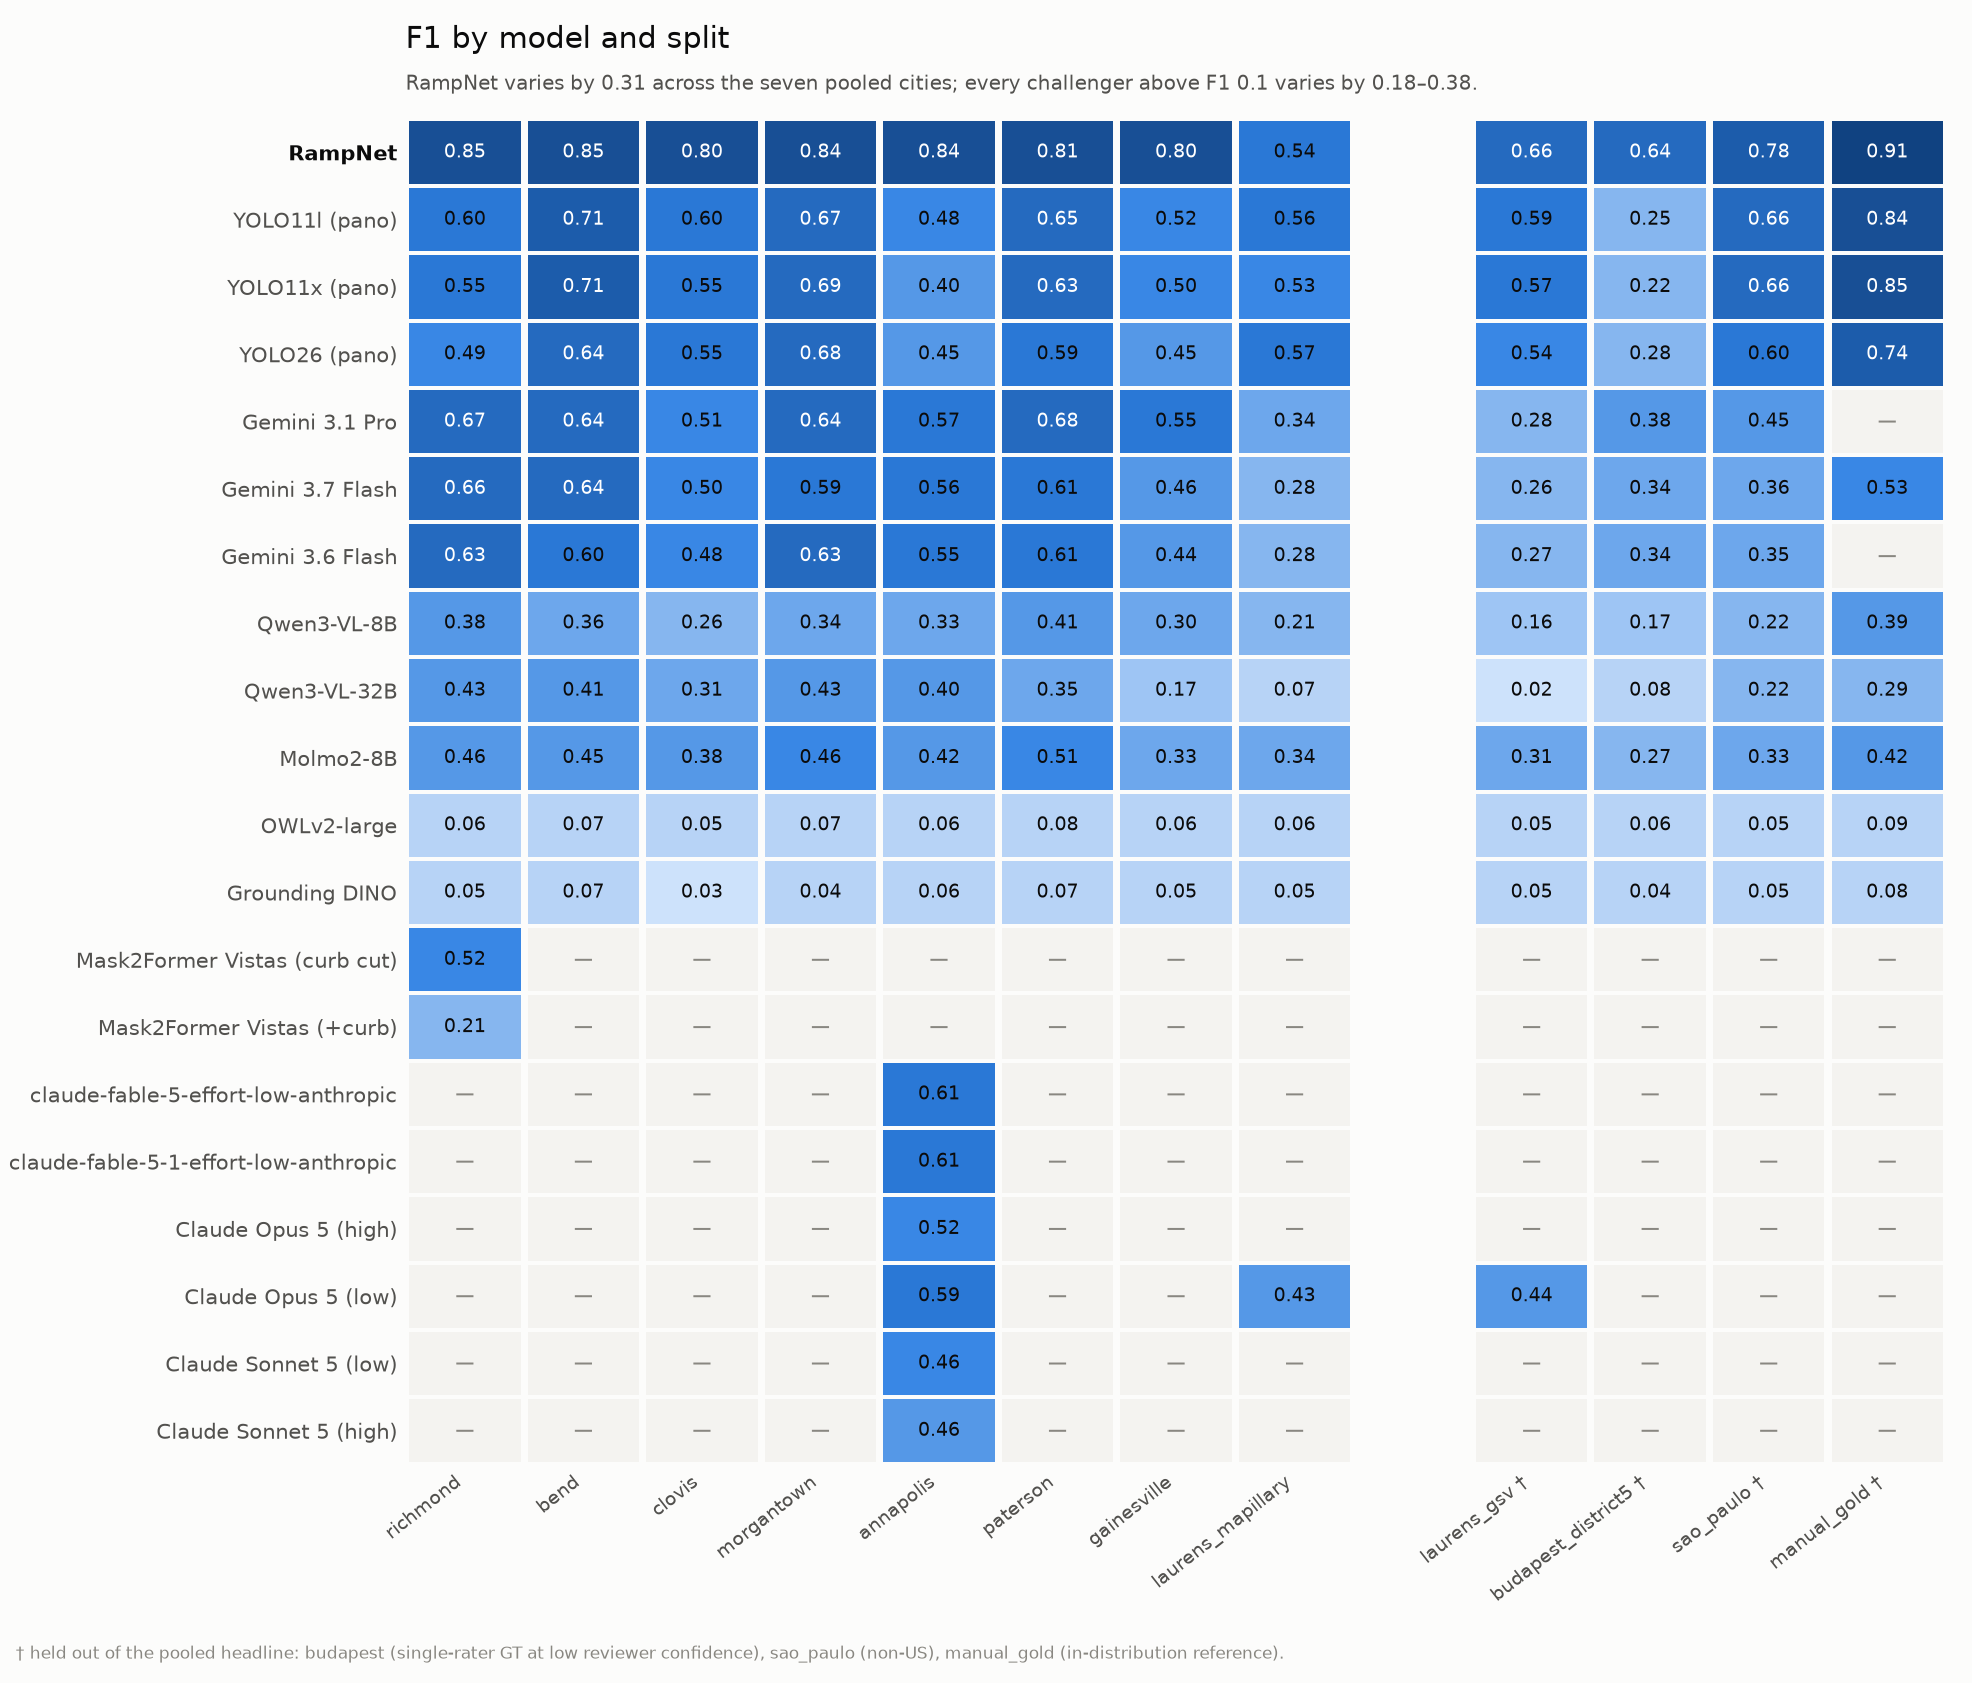
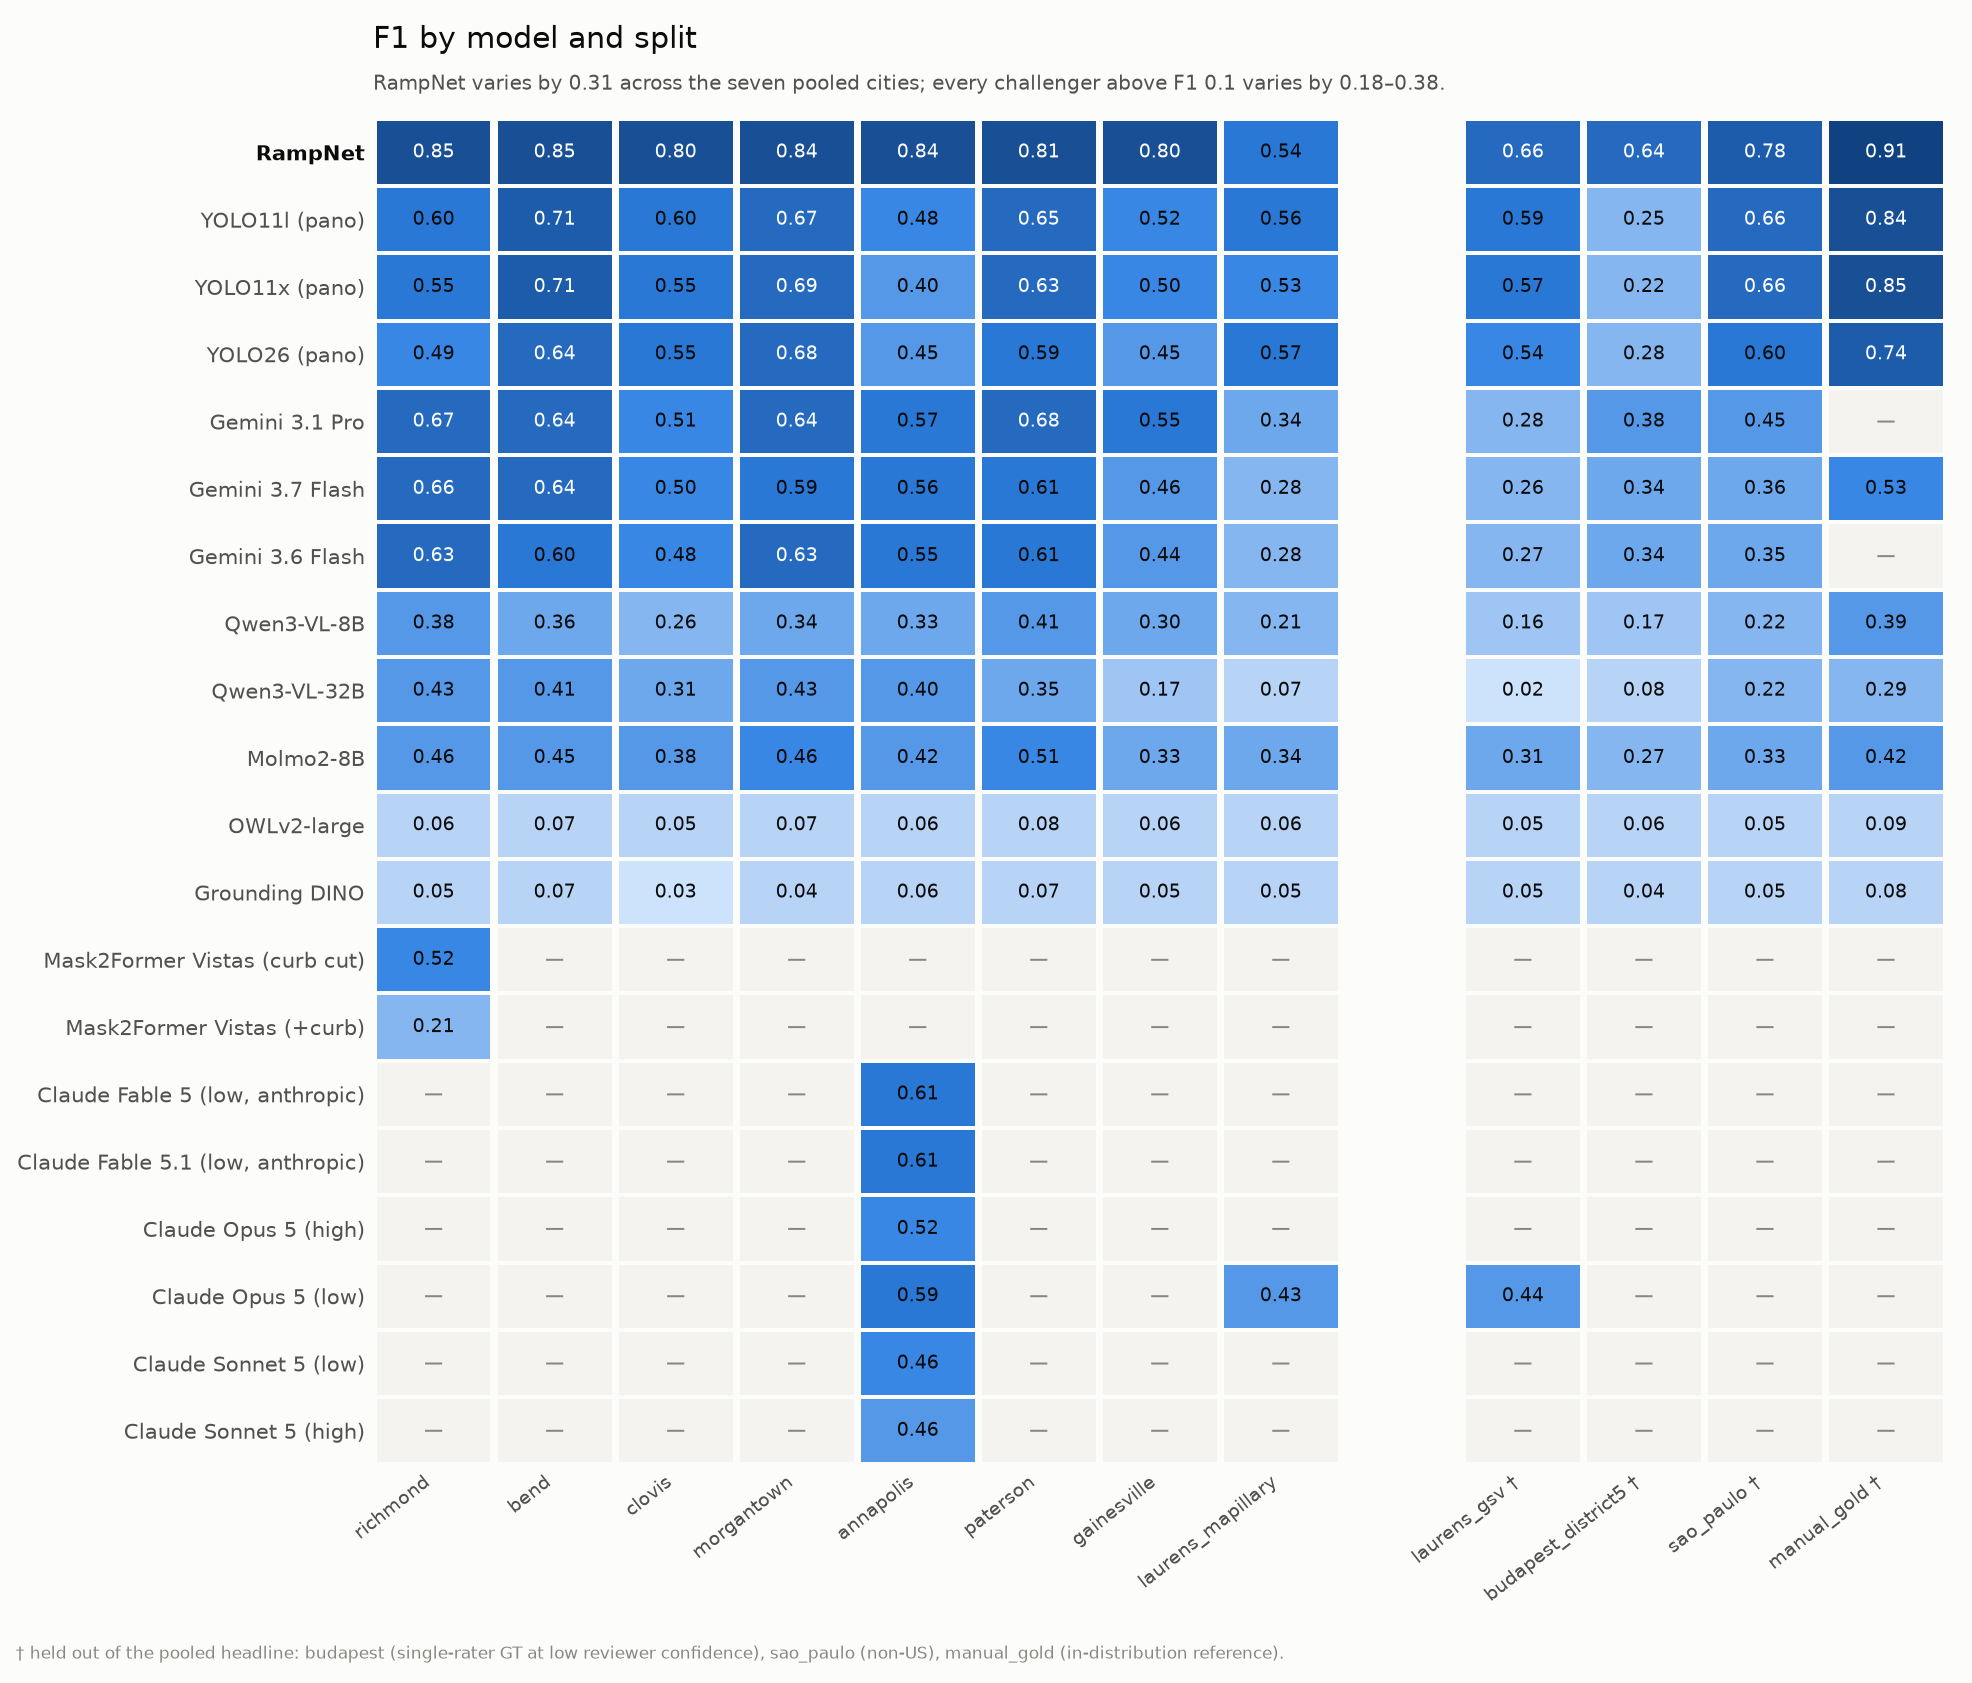
Bring the scoreboard prose up to date with its own partial table
The regenerated partial table showed Fable 5 at 0.611 and Fable 5.1 at
0.610, while the hand-written sentence 14 lines below it still called
Opus 5 at low effort (0.588) the strongest challenger on annapolis, and
both leg-count sentences still said six legs (four Claude) when the table
had eight (six Claude). The "one split each" wording was already wrong on
main: Opus-low has annapolis plus both Laurens arms.

Rewrites the three sentences, with the serving-path caveat carried in from
model_comparison.md. Gives the two Fable legs DISPLAY names in scoreboard.py
so they render like their siblings instead of as raw slugs, and regenerates
the doc, JSON and by-split figure with it. Puts the roster docstring about
claude_serving_path in the past tense now that the pin exists.

Adds a test that reads the count of legs outside the pooled tables and the
best annapolis challenger off the board and checks the prose against both,
since the generated blocks are the only part the generator can keep honest.

Finding S2 on PR 157 (#156).

Claude-Session: https://claude.ai/code/session_01E58bhyukgYXphE47jsnA29

diff --git a/tests/test_scoreboard.py b/tests/test_scoreboard.py
@@ -488,6 +488,39 @@ def test_partial_table_names_the_split_every_number_came_from(board):
     assert "Mask2Former Vistas (curb cut)" in table
 
 
+_WORDS = {2: "Two", 3: "Three", 4: "Four", 5: "Five", 6: "Six", 7: "Seven", 8: "Eight",
+          9: "Nine", 10: "Ten", 11: "Eleven", 12: "Twelve"}
+
+
+def test_the_prose_beside_the_partial_table_agrees_with_it(board):
+    """The generator rewrites the tables and nothing else. The sentences around them
+    are hand-written, and when the Fable legs landed (#156) the table gained two rows
+    that beat the leg the prose still called the strongest challenger, while the leg
+    count it quoted stayed at six. (S2 on PR #157.)
+
+    Two checks, both against the board rather than against any number typed here:
+    the count of legs outside the pooled tables, and which leg is the best challenger
+    on annapolis -- the split every Claude leg has run, and the one the prose singles
+    out.
+    """
+    with open(sb.DEFAULT_DOC, encoding="utf-8", newline="") as fh:
+        doc = fh.read()
+    n_partial = sum(1 for m in board["models"] if not m["complete"])
+    want = f"{_WORDS[n_partial]} legs have not run the pooled splits"
+    assert doc.count(want) == 2, (
+        f"expected {want!r} twice in docs/model_scoreboard.md (the section opener and "
+        f"the 'What is missing' bullet); the board has {n_partial} such legs")
+
+    best = max((m for m in board["models"] if m["model"] != "rampnet"
+                and "annapolis" in board["per_split"][m["model"]]),
+               key=lambda m: board["per_split"][m["model"]]["annapolis"]["f1"])
+    claim = re.search(r"\*\*(.+?) is the strongest challenger measured on annapolis\*\*", doc)
+    assert claim, "the strongest-challenger sentence is gone"
+    assert best["display"].startswith(claim.group(1).split(" at ")[0]), (
+        f"the doc names {claim.group(1)!r}; the board says {best['display']!r} "
+        f"(F1 {board['per_split'][best['model']]['annapolis']['f1']:.3f})")
+
+
 def test_a_leg_from_an_unmapped_provider_is_classified_not_dropped():
     """A roster entry whose provider predates this module still has to reach the board."""
     leg = roster.Challenger(spec="newthing:x", label="x", provider="newthing",

diff --git a/rampnet/roster.py b/rampnet/roster.py
@@ -36,10 +36,10 @@ Five properties of an entry are worth stating because they are easy to get wrong
   names the knob it holds, as ``(("claude_effort", "high"),)``.
 
   **A pin is what the leg needs to REPRODUCE, which is a superset of what enters the
-  signature.** ``claude_serving_path`` (#156) will be the first pin that is not a
+  signature.** ``claude_serving_path`` (#156) is the first pin that is not a
   signature key: a Fable leg must run against ``anthropic`` because Vertex gates that
   family, but the path does not change the detections and deliberately stays out of the
-  cache key (see ``ClaudeDetector.signature``). Pinning it anyway is what will keep a
+  cache key (see ``ClaudeDetector.signature``). Pinning it anyway is what keeps a
   bare ``claude:claude-fable-5-1`` from resolving to a Vertex run that 403s. Note the
   consequence for naming: ``published_as`` must spell out every pin's value, so such a
   leg is ``claude-fable-5-1-effort-low-anthropic``.

diff --git a/scripts/analysis/scoreboard.py b/scripts/analysis/scoreboard.py
@@ -195,6 +195,10 @@ DISPLAY = {
     "claude-opus-5-effort-high": "Claude Opus 5 (high)",
     "claude-sonnet-5-effort-low": "Claude Sonnet 5 (low)",
     "claude-sonnet-5-effort-high": "Claude Sonnet 5 (high)",
+    # #156: served on Anthropic's first-party API, not Vertex -- the pin is part of
+    # the published name, so it is part of the display name too.
+    "claude-fable-5-effort-low-anthropic": "Claude Fable 5 (low, anthropic)",
+    "claude-fable-5-1-effort-low-anthropic": "Claude Fable 5.1 (low, anthropic)",
     "mask2former-vistas-curb-cut": "Mask2Former Vistas (curb cut)",
     "mask2former-vistas-curb-cut+curb": "Mask2Former Vistas (+curb)",
 }

diff --git a/docs/model_scoreboard.md b/docs/model_scoreboard.md
@@ -93,9 +93,11 @@ and F1 cannot tell you.
 
 ## Legs that have not run every pooled split
 
-Six legs have run one split each, so they have no pooled mean to put in the table above —
-a one-city average printed beside a seven-city one is exactly the comparison the coverage
-column exists to prevent. They are reported per split instead, at the split they ran on:
+Eight legs have not run the pooled splits — six of them one split each, and Opus 5 at low
+effort three (annapolis plus both Laurens arms) — so they have no pooled mean to put in the
+table above: a one-city average printed beside a seven-city one is exactly the comparison
+the coverage column exists to prevent. They are reported per split instead, at the splits
+they ran on:
 
 <!-- BEGIN GENERATED: partial (scripts/analysis/scoreboard.py) -->
 
@@ -103,8 +105,8 @@ column exists to prevent. They are reported per split instead, at the split they
 |---|---|---|--:|--:|--:|--:|--:|--:|
 | Mask2Former Vistas (curb cut) | supervised transfer | `richmond` | 0.411 | 0.697 | 0.517 | 0.513 | 2.5 | 216/309/94 |
 | Mask2Former Vistas (+curb) | supervised transfer | `richmond` | 0.126 | 0.648 | 0.210 | 0.089 | 11.3 | 201/1399/109 |
-| claude-fable-5-effort-low-anthropic | chat VLM | `annapolis` | 0.579 | 0.646 | 0.611 | – | 1.1 | 190/138/104 |
-| claude-fable-5-1-effort-low-anthropic | chat VLM | `annapolis` | 0.637 | 0.585 | 0.610 | – | 0.8 | 172/98/122 |
+| Claude Fable 5 (low, anthropic) | chat VLM | `annapolis` | 0.579 | 0.646 | 0.611 | – | 1.1 | 190/138/104 |
+| Claude Fable 5.1 (low, anthropic) | chat VLM | `annapolis` | 0.637 | 0.585 | 0.610 | – | 0.8 | 172/98/122 |
 | Claude Opus 5 (high) | chat VLM | `annapolis` | 0.430 | 0.656 | 0.520 | – | 2.0 | 193/256/101 |
 | Claude Opus 5 (low) | chat VLM | `annapolis` | 0.572 | 0.605 | 0.588 | – | 1.1 | 178/133/116 |
 | Claude Opus 5 (low) | chat VLM | `laurens_mapillary` | 0.485 | 0.386 | 0.430 | – | 1.1 | 96/102/153 |
@@ -117,10 +119,16 @@ column exists to prevent. They are reported per split instead, at the split they
 Two things worth carrying out of that table, both from splits where the roster's own
 numbers are directly above them in `model_comparison.md`:
 
-- **Claude Opus 5 at low effort is the strongest challenger measured on annapolis** (F1
-  0.588, against gemini-3.1-pro's 0.567) — and **more thinking makes it worse** (0.520 at
-  high effort). The same direction holds for Sonnet 5 (0.463 → 0.456). Effort moves the
-  operating point; it does not raise the ceiling (#122).
+- **Claude Fable 5 at low effort is the strongest challenger measured on annapolis** (F1
+  0.611), with Fable 5.1 at 0.610 — both displace Claude Opus 5 at low effort (0.588),
+  which had itself displaced gemini-3.1-pro (0.567). The two Fable legs ran on Anthropic's
+  first-party API rather than the Vertex path every other Claude leg used, because Vertex
+  gates that family; the path is pinned in each published file and the caveat travels
+  with the numbers in `model_comparison.md` (#156). Within the Claude legs, **more
+  thinking makes it worse** (Opus 0.588 → 0.520 at high effort; Sonnet 5 0.463 → 0.456),
+  and the Fable version is the same kind of dial: 5 and 5.1 sit 0.001 F1 apart at visibly
+  different P/R points. Effort and version move the operating point; neither raises the
+  ceiling (#122, #156).
 - **Supervised transfer fixes most of the precision problem and still loses.** Mask2Former
   reading Vistas' `Curb Cut` class scores 0.517 on richmond with **12.4× OWLv2's
   precision** and no training at all — but RampNet's 0.855 on that split is 0.337 clear of
@@ -150,8 +158,8 @@ numbers are directly above them in `model_comparison.md`:
 | Grounding DINO | 0.053 | 0.073 | 0.035 | 0.042 | 0.055 | 0.068 | 0.055 | 0.045 | 0.053 | 0.054 | 0.042 | 0.049 | 0.082 |
 | Mask2Former Vistas (curb cut) | 0.517 | – | – | – | – | – | – | – | – | – | – | – | – |
 | Mask2Former Vistas (+curb) | 0.210 | – | – | – | – | – | – | – | – | – | – | – | – |
-| claude-fable-5-effort-low-anthropic | – | – | – | – | 0.611 | – | – | – | – | – | – | – | – |
-| claude-fable-5-1-effort-low-anthropic | – | – | – | – | 0.610 | – | – | – | – | – | – | – | – |
+| Claude Fable 5 (low, anthropic) | – | – | – | – | 0.611 | – | – | – | – | – | – | – | – |
+| Claude Fable 5.1 (low, anthropic) | – | – | – | – | 0.610 | – | – | – | – | – | – | – | – |
 | Claude Opus 5 (high) | – | – | – | – | 0.520 | – | – | – | – | – | – | – | – |
 | Claude Opus 5 (low) | – | – | – | – | 0.588 | – | – | 0.430 | – | 0.437 | – | – | – |
 | Claude Sonnet 5 (low) | – | – | – | – | 0.463 | – | – | – | – | – | – | – | – |
@@ -386,9 +394,10 @@ Omissions are content, so they are named rather than left as blanks:
   because it is untested.
 - **`manual_gold` has no null-recall pass** (O(n²) in panos), so the open detectors' recall
   discount is unmeasured on that split.
-- **Six legs have one split each**, so they are in the partial table rather than the
-  headline: the two Vistas arms (richmond) and the four Claude legs (annapolis). Extending
-  either to the full pool is a run, not a code change.
+- **Eight legs have not run the pooled splits**, so they are in the partial table rather
+  than the headline: the two Vistas arms (richmond) and the six Claude legs (annapolis;
+  Opus 5 at low effort also has both Laurens arms). Extending any of them to the full pool
+  is a run, not a code change.
 - **Nothing else in the registry is missing.** The board is driven by `rampnet/roster.py`,
   and `unregistered_exports` is empty — every published detections file is claimed by a
   roster entry and scored here.
